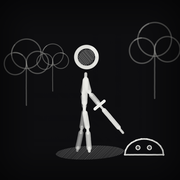
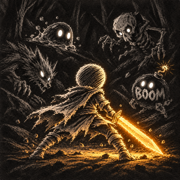
隐私政策与支援页：加入应用内购买条款、恢复购买说明

diff --git a/privacy.html b/privacy.html
@@ -41,15 +41,17 @@
 <p>Google handles this information under its own policy: <a href="https://policies.google.com/technologies/partner-sites">policies.google.com/technologies/partner-sites</a></p>
 <p>If you are in the European Economic Area, the UK or Switzerland, the game asks for your consent to personalised ads on first launch. You can change your choice at any time from the ad privacy option in Settings.</p>
 <p>Saying no, or declining tracking, does not affect the game. You can still see non-personalised ads, or simply never watch any.</p>
-<h2>4. Children</h2>
+<h2>4. In-app purchases</h2>
+<p>Purchases are handled by the Apple App Store, and we never receive your payment details. "Restore Purchases" only asks the store for your own purchase history. Purchased items are stored on your device and linked to your Apple Account by Apple.</p>
+<h2>5. Children</h2>
 <p>The game is not directed at children under 13, and we do not knowingly collect personal information from children.</p>
-<h2>5. What we don't do</h2>
+<h2>6. What we don't do</h2>
 <p>No analytics, no selling of data, and no sharing with any third party other than the ad provider above.</p>
-<h2>6. Changes</h2>
+<h2>7. Changes</h2>
 <p>If this policy changes, we will update this page and its effective date.</p>
-<h2>7. Contact</h2>
+<h2>8. Contact</h2>
 <p><a href="mailto:kwoksw96@gmail.com">kwoksw96@gmail.com</a></p>
-<p class="updated">Effective: October 28, 2026</p>
+<p class="updated">Effective: October 29, 2026</p>
 </section>
 <section data-lang="zh-Hans">
 <h1 class="pt">隐私政策</h1>
@@ -70,15 +72,17 @@
 <p>这些信息由 Google 按其政策处理：<a href="https://policies.google.com/technologies/partner-sites">policies.google.com/technologies/partner-sites</a></p>
 <p>如果你在欧洲经济区、英国或瑞士，首次启动会先询问你是否同意个性化广告；之后可在游戏「设定」里的广告隐私选项随时更改。</p>
 <p>不同意或拒绝跟踪都不影响游戏，你仍然可以看到非个性化广告，或者完全不看广告。</p>
-<h2>四、儿童</h2>
+<h2>四、应用内购买</h2>
+<p>购买由 Apple App Store 处理，我们收不到你的付款信息；「恢复购买」只向商店查询你自己的购买记录。已购买的商品保存在你的设备上，并由 Apple 与你的 Apple 账户关联。</p>
+<h2>五、儿童</h2>
 <p>本游戏不以 13 岁以下儿童为对象，我们不会有意收集儿童的个人信息。</p>
-<h2>五、我们不做的事</h2>
+<h2>六、我们不做的事</h2>
 <p>不做统计分析，不卖数据，不与广告以外的第三方分享任何信息。</p>
-<h2>六、政策变更</h2>
+<h2>七、政策变更</h2>
 <p>政策更新时会修改本页并更新生效日期。</p>
-<h2>七、联系我们</h2>
+<h2>八、联系我们</h2>
 <p><a href="mailto:kwoksw96@gmail.com">kwoksw96@gmail.com</a></p>
-<p class="updated">生效日期：2026 年 10 月 28 日</p>
+<p class="updated">生效日期：2026 年 10 月 29 日</p>
 </section>
 <section data-lang="zh-Hant">
 <h1 class="pt">隱私權政策</h1>
@@ -99,15 +103,17 @@
 <p>這些資訊由 Google 依其政策處理：<a href="https://policies.google.com/technologies/partner-sites">policies.google.com/technologies/partner-sites</a></p>
 <p>如果你位於歐洲經濟區、英國或瑞士，首次啟動時會先詢問你是否同意個人化廣告；之後可在遊戲「設定」裡的廣告隱私選項隨時更改。</p>
 <p>不同意或拒絕追蹤都不影響遊戲，你仍然可以看到非個人化廣告，或者完全不看廣告。</p>
-<h2>四、兒童</h2>
+<h2>四、應用程式內購買</h2>
+<p>購買由 Apple App Store 處理，我們不會收到你的付款資訊；「還原購買」只會向商店查詢你自己的購買紀錄。已購買的項目儲存在你的裝置上，並由 Apple 與你的 Apple 帳號關聯。</p>
+<h2>五、兒童</h2>
 <p>本遊戲不以 13 歲以下兒童為對象，我們不會刻意蒐集兒童的個人資料。</p>
-<h2>五、我們不做的事</h2>
+<h2>六、我們不做的事</h2>
 <p>不做統計分析，不販售資料，不與上述廣告供應商以外的第三方分享任何資訊。</p>
-<h2>六、政策變更</h2>
+<h2>七、政策變更</h2>
 <p>政策更新時會修改本頁並更新生效日期。</p>
-<h2>七、聯絡我們</h2>
+<h2>八、聯絡我們</h2>
 <p><a href="mailto:kwoksw96@gmail.com">kwoksw96@gmail.com</a></p>
-<p class="updated">生效日期：2026 年 10 月 28 日</p>
+<p class="updated">生效日期：2026 年 10 月 29 日</p>
 </section>
 <section data-lang="ja">
 <h1 class="pt">プライバシーポリシー</h1>
@@ -128,15 +134,17 @@
 <p>これらの情報は Google のポリシーに従って扱われます：<a href="https://policies.google.com/technologies/partner-sites">policies.google.com/technologies/partner-sites</a></p>
 <p>欧州経済領域・英国・スイスにお住まいの場合、初回起動時にパーソナライズ広告への同意をお尋ねします。選択は、ゲーム内「設定」の広告プライバシー設定からいつでも変更できます。</p>
 <p>同意しない、またはトラッキングを拒否しても、ゲームには影響しません。パーソナライズされない広告が表示されるか、広告を一切見ないこともできます。</p>
-<h2>4. お子様について</h2>
+<h2>4. アプリ内課金</h2>
+<p>購入は Apple App Store によって処理され、当方がお支払い情報を受け取ることはありません。「購入を復元」は、ストアにお客様ご自身の購入履歴を問い合わせるだけです。購入したアイテムは端末に保存され、Apple によってお客様の Apple アカウントに関連付けられます。</p>
+<h2>5. お子様について</h2>
 <p>本ゲームは13歳未満のお子様を対象としておらず、お子様の個人情報を意図的に収集することはありません。</p>
-<h2>5. 行わないこと</h2>
+<h2>6. 行わないこと</h2>
 <p>アクセス解析は行わず、データの販売や、上記の広告事業者以外の第三者への情報提供も行いません。</p>
-<h2>6. ポリシーの変更</h2>
+<h2>7. ポリシーの変更</h2>
 <p>本ポリシーを変更する場合は、このページと施行日を更新します。</p>
-<h2>7. お問い合わせ</h2>
+<h2>8. お問い合わせ</h2>
 <p><a href="mailto:kwoksw96@gmail.com">kwoksw96@gmail.com</a></p>
-<p class="updated">施行日：2026年10月28日</p>
+<p class="updated">施行日：2026年10月29日</p>
 </section>
 <section data-lang="es">
 <h1 class="pt">Política de privacidad</h1>
@@ -157,15 +165,17 @@
 <p>Google trata esta información conforme a su propia política: <a href="https://policies.google.com/technologies/partner-sites">policies.google.com/technologies/partner-sites</a></p>
 <p>Si estás en el Espacio Económico Europeo, el Reino Unido o Suiza, el juego te pide tu consentimiento para anuncios personalizados en el primer inicio. Puedes cambiar tu elección en cualquier momento desde la opción de privacidad de anuncios en Ajustes.</p>
 <p>Decir que no, o rechazar el seguimiento, no afecta al juego. Seguirás viendo anuncios no personalizados, o simplemente puedes no ver ninguno.</p>
-<h2>4. Menores</h2>
+<h2>4. Compras dentro de la aplicación</h2>
+<p>Las compras las gestiona la App Store de Apple y nunca recibimos tus datos de pago. «Restaurar compras» solo consulta a la tienda tu propio historial de compras. Los artículos comprados se guardan en tu dispositivo y Apple los asocia a tu cuenta de Apple.</p>
+<h2>5. Menores</h2>
 <p>El juego no está dirigido a menores de 13 años y no recopilamos a sabiendas información personal de menores.</p>
-<h2>5. Lo que no hacemos</h2>
+<h2>6. Lo que no hacemos</h2>
 <p>Sin analíticas, sin venta de datos y sin compartir información con ningún tercero distinto del proveedor de anuncios indicado arriba.</p>
-<h2>6. Cambios</h2>
+<h2>7. Cambios</h2>
 <p>Si esta política cambia, actualizaremos esta página y su fecha de entrada en vigor.</p>
-<h2>7. Contacto</h2>
+<h2>8. Contacto</h2>
 <p><a href="mailto:kwoksw96@gmail.com">kwoksw96@gmail.com</a></p>
-<p class="updated">En vigor desde: 28 de octubre de 2026</p>
+<p class="updated">En vigor desde: 29 de octubre de 2026</p>
 </section>
 </div>
 <script>var titles = {"en": "Inkwood — Privacy Policy", "zh-Hans": "暗黑之森 — 隐私政策", "zh-Hant": "暗黑之森 — 隱私權政策", "ja": "Inkwood — プライバシーポリシー", "es": "Inkwood — Política de privacidad"};</script>

diff --git a/index.html b/index.html
@@ -30,6 +30,7 @@
 <p><strong>Where is my progress saved?</strong> Only on your device. Deleting the game clears it, and there is currently no way to move it to another phone.</p>
 <p><strong>Can I skip the ads?</strong> Yes. Ads only appear when you choose to watch one for a reward, and the whole game can be finished without watching any.</p>
 <p><strong>How do I change my ad privacy choice?</strong> In the game, open Settings › Ad Privacy Options (shown only where required, such as in Europe). Tracking permission is in iOS Settings › Privacy &amp; Security › Tracking.</p>
+<p><strong>How do I restore my purchases?</strong> In the game, open Settings › Restore Purchases (iPhone and iPad). Use the same Apple Account you bought with. Consumable items (matches, tickets, class cards) are not restored.</p>
 <p><strong>How do I change the language?</strong> In the game, open Settings › Language.</p>
 <p><strong>Where do I read the privacy policy?</strong> <a href="privacy.html?lang=en">Privacy Policy</a>.</p>
 <h2>Get in touch</h2>
@@ -44,6 +45,7 @@
 <p><strong>进度存在哪里？</strong>只在本机。删除游戏会清除进度，换手机目前无法转移。</p>
 <p><strong>不想看广告可以吗？</strong>可以。广告只在你主动选择换奖励时出现，不看也能通关。</p>
 <p><strong>怎样更改广告隐私选择？</strong>游戏「设定」→ 广告隐私选项（仅在需要时显示，例如欧洲地区）。跟踪权限在系统「设置 → 隐私与安全性 → 跟踪」。</p>
+<p><strong>怎样恢复购买？</strong>游戏「设定」→ 恢复购买（iPhone / iPad）。请使用购买时的 Apple 账户。消耗型商品（火柴、免广告券、转职卡）不会被恢复。</p>
 <p><strong>怎样切换语言？</strong>游戏「设定」→ 语言。</p>
 <p><strong>隐私政策在哪里？</strong><a href="privacy.html?lang=zh-Hans">隐私政策</a>。</p>
 <h2>联系我们</h2>
@@ -57,6 +59,7 @@
 <p><strong>進度存在哪裡？</strong>只在本機。刪除遊戲會清除進度，換手機目前無法轉移。</p>
 <p><strong>不想看廣告可以嗎？</strong>可以。廣告只在你主動選擇換取獎勵時出現，不看也能通關。</p>
 <p><strong>如何更改廣告隱私選擇？</strong>遊戲「設定」→ 廣告隱私選項（僅在需要時顯示，例如歐洲地區）。追蹤權限在系統「設定 → 隱私權與安全性 → 追蹤」。</p>
+<p><strong>如何還原購買？</strong>遊戲「設定」→ 還原購買（iPhone / iPad）。請使用購買時的 Apple 帳號。消耗型項目（火柴、免廣告券、轉職卡）不會被還原。</p>
 <p><strong>如何切換語言？</strong>遊戲「設定」→ 語言。</p>
 <p><strong>隱私權政策在哪裡？</strong><a href="privacy.html?lang=zh-Hant">隱私權政策</a>。</p>
 <h2>聯絡我們</h2>
@@ -70,6 +73,7 @@
 <p><strong>進行状況はどこに保存されますか？</strong>お使いの端末内のみです。ゲームを削除すると消え、現在は別の端末へ引き継ぐ方法はありません。</p>
 <p><strong>広告を見なくても遊べますか？</strong>はい。広告は報酬のためにご自身で視聴を選んだときだけ表示され、1回も見なくてもクリアできます。</p>
 <p><strong>広告のプライバシー設定を変更するには？</strong>ゲーム内の「設定」→「広告のプライバシー設定」（欧州など、必要な地域でのみ表示されます）。トラッキングの許可は、iOS の「設定」→「プライバシーとセキュリティ」→「トラッキング」にあります。</p>
+<p><strong>購入を復元するには？</strong>ゲーム内の「設定」→「購入を復元」（iPhone / iPad）。購入時と同じ Apple アカウントをお使いください。消耗型アイテム（マッチ、チケット、転職カード）は復元されません。</p>
 <p><strong>言語を変更するには？</strong>ゲーム内の「設定」→「言語」。</p>
 <p><strong>プライバシーポリシーはどこですか？</strong><a href="privacy.html?lang=ja">プライバシーポリシー</a></p>
 <h2>お問い合わせ</h2>
@@ -83,6 +87,7 @@
 <p><strong>¿Dónde se guarda mi progreso?</strong> Solo en tu dispositivo. Al borrar el juego se elimina, y por ahora no es posible pasarlo a otro teléfono.</p>
 <p><strong>¿Puedo evitar los anuncios?</strong> Sí. Los anuncios solo aparecen cuando eliges verlos a cambio de una recompensa, y el juego completo se puede terminar sin ver ninguno.</p>
 <p><strong>¿Cómo cambio mi elección de privacidad de anuncios?</strong> En el juego, abre Ajustes › Opciones de privacidad de anuncios (solo aparece donde es necesario, como en Europa). El permiso de seguimiento está en Ajustes de iOS › Privacidad y seguridad › Seguimiento.</p>
+<p><strong>¿Cómo restauro mis compras?</strong> En el juego, abre Ajustes › Restaurar compras (iPhone y iPad). Usa la misma cuenta de Apple con la que compraste. Los artículos consumibles (cerillas, vales, cartas de clase) no se restauran.</p>
 <p><strong>¿Cómo cambio el idioma?</strong> En el juego, abre Ajustes › Idioma.</p>
 <p><strong>¿Dónde leo la política de privacidad?</strong> <a href="privacy.html?lang=es">Política de privacidad</a>.</p>
 <h2>Contacto</h2>
